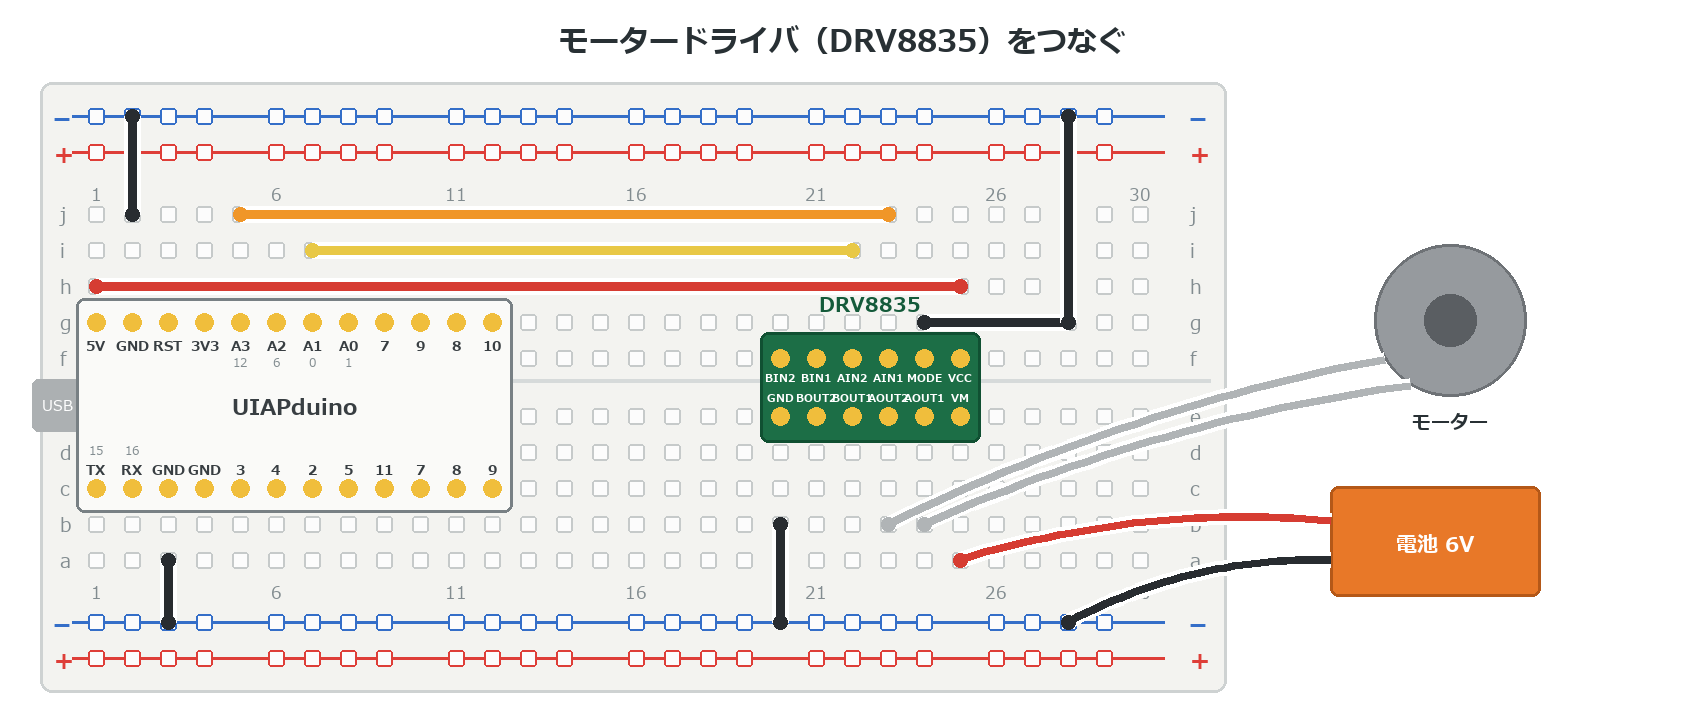
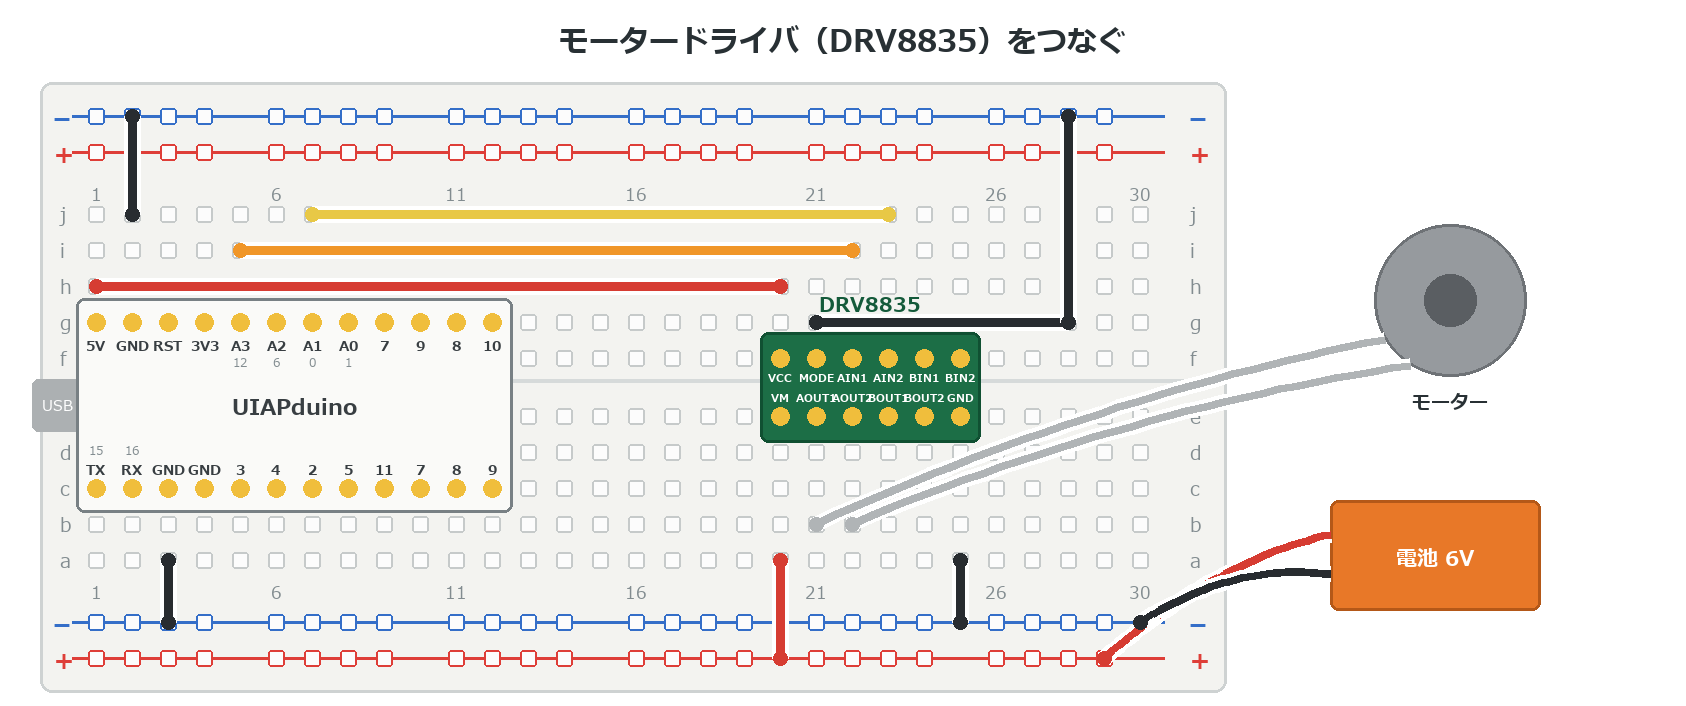
DRV8835 の端子の並びを直した（上下が入れかわった鏡像だった）
資料 AE-DRV8835-S のピン番号で確定させた。
  1 VM  2 AOUT1  3 AOUT2  4 BOUT1  5 BOUT2  6 GND
  7 BIN2 8 BIN1  9 AIN2  10 AIN1  11 MODE  12 VCC

12ピンDIP なので 1番の向かいが 12番。横向きにさすと
  上の行 VCC MODE AIN1 AIN2 BIN1 BIN2
  下の行 VM  AOUT1 AOUT2 BOUT1 BOUT2 GND
になる。

これまでの図は
  上の行 BIN2 BIN1 AIN2 AIN1 MODE VCC
  下の行 GND BOUT2 BOUT1 AOUT2 AOUT1 VM
で、90度右に回した向き・左に回した向きのどちらとも合わない、
上下の行が入れかわった鏡像だった。実物では作れない配置。

実物写真とも突き合わせて一致を確認した（写真の左列が 7〜12、
右列が 6〜1）。写真が不鮮明だったため、資料のピン番号を根拠に
している。

配線も並びに合わせて引き直した。合図が上・力が下という構成は
変えていないので、本文の手順はそのまま使える。

diff --git a/docs/e5_motor/index.html b/docs/e5_motor/index.html
@@ -98,7 +98,7 @@
 
 :::
 
-![合図の線は4本とも上がわ。力の線は下がわ](image/index/bb_drv8835.png)
+![上の行が合図（VCC・MODE・AIN1・AIN2）、下の行が力（VM・AOUT・GND）](image/index/bb_drv8835.png)
 
 ---
 

diff --git a/tools/fig_bb_drv8835.py b/tools/fig_bb_drv8835.py
@@ -1,39 +1,49 @@
 # -*- coding: utf-8 -*-
 """e5 モータードライバの配線図。
-   VCC はロジックの基準電圧。モジュール資料に「入力は 0〜Vcc、
-   絶対最大 Vcc+0.5V」とあるので、5V で動くこのボードにつなぐなら
-   VCC は 3V3 ではなく 5V。"""
+
+端子の並びは資料 AE-DRV8835-S のピン番号から起こしてある。
+  1 VM   2 AOUT1  3 AOUT2  4 BOUT1  5 BOUT2  6 GND
+  7 BIN2 8 BIN1   9 AIN2  10 AIN1  11 MODE  12 VCC
+12ピンDIP なので 1番の向かいが 12番。これを横向きにさすと
+  上の行  VCC MODE AIN1 AIN2 BIN1 BIN2
+  下の行  VM  AOUT1 AOUT2 BOUT1 BOUT2 GND
+となり、合図が上・力が下にそろう。
+
+VCC はロジックの基準電圧。資料に「入力は 0〜Vcc」とあるので、
+5V で動くこのボードにつなぐなら VCC も 5V。
+"""
 import sys
 sys.path.insert(0, "tools")
 sys.stdout.reconfigure(encoding="utf-8")
 from bb import *
 
 RED, ORANGE, YELLOW, BLACK = (214, 60, 50), (240, 150, 40), (232, 200, 70), (40, 44, 48)
-DIPCOL = 20
+DC = 20                                    # DIP の左はし（VCC / VM の列）
 
 im, d = new("モータードライバ（DRV8835）をつなぐ", extra_w=420)
 board(d)
 mcu(d)
-dip(d, DIPCOL, ["BIN2", "BIN1", "AIN2", "AIN1", "MODE", "VCC"],
-                ["GND", "BOUT2", "BOUT1", "AOUT2", "AOUT1", "VM"])
+dip(d, DC, ["VCC", "MODE", "AIN1", "AIN2", "BIN1", "BIN2"],
+            ["VM", "AOUT1", "AOUT2", "BOUT1", "BOUT2", "GND"])
 
-# 合図の線。5V を j行にすると col2 の GND ジャンパーと交差して見えるので h行に置く
-wire(d, (5, "j"), (23, "j"), ORANGE)     # A3（12番）→ AIN1
-wire(d, (7, "i"), (22, "i"), YELLOW)     # A1（0番） → AIN2
-wire(d, (1, "h"), (25, "h"), RED)        # 5V        → VCC
-wire(d, (24, "g"), (28, "g"), BLACK)     # MODE      → GND（IN/INモード）
+# ── 合図と電源（上がわ）。行を分けて平行に走らせる ──────────
+wire(d, (1, "h"), (DC,     "h"), RED)      # 5V      → VCC
+wire(d, (5, "i"), (DC + 2, "i"), ORANGE)   # 12番(A3) → AIN1
+wire(d, (7, "j"), (DC + 3, "j"), YELLOW)   # 0番(A1)  → AIN2
+wire(d, (DC + 1, "g"), (28, "g"), BLACK)   # MODE → GND（IN/INモード）
 wire(d, (28, "g"), (28, "-t"), BLACK)
-wire(d, (2, "j"), (2, "-t"), BLACK)      # ボードの GND → 上の − レール
-wire(d, (3, "a"), (3, "-b"), BLACK)      # ボードの GND → 下の − レール
-wire(d, (DIPCOL, "b"), (DIPCOL, "-b"), BLACK)   # ドライバの GND → 下の − レール
+wire(d, (2, "j"), (2, "-t"), BLACK)        # ボードのGND → 上の −レール
 
-# 力の線
-MX, MY = 1450, 320
+# ── 力の線（下がわ）────────────────────────────────
+wire(d, (DC,     "a"), (DC,     "+b"), RED)     # VM  → 下の ＋レール
+wire(d, (DC + 5, "a"), (DC + 5, "-b"), BLACK)   # GND → 下の −レール
+wire(d, (3, "a"), (3, "-b"), BLACK)             # ボードのGND → 同じレール
+
+MX, MY = 1450, 300
 motor(d, MX, MY)
-lead(d, MX - 66, MY + 40, (23, "b"), (176, 180, 182))
-lead(d, MX - 40, MY + 66, (24, "b"), (176, 180, 182))
-bp, bm = battery(d, 1330, 486)
-lead(d, bp[0], bp[1], (25, "a"), RED)
-lead(d, bm[0], bm[1], (28, "-b"), BLACK)
-
+lead(d, MX - 66, MY + 40, (DC + 1, "b"), (176, 180, 182))   # AOUT1
+lead(d, MX - 40, MY + 66, (DC + 2, "b"), (176, 180, 182))   # AOUT2
+bp, bm = battery(d, 1330, 500)
+lead(d, bp[0], bp[1], (29, "+b"), RED)
+lead(d, bm[0], bm[1], (30, "-b"), BLACK)
 save(im, "e5_motor", "bb_drv8835.png")

diff --git a/CURRICULUM.md b/CURRICULUM.md
@@ -1218,7 +1218,15 @@ i3 Lチカ ─→ b1 外付けLED ─→ b3 PWM ────┐
       （ロジック電源 2〜7V なので 5V は範囲内。モータ電源 2〜11V・1回路1.5A）
       教材は 3V3 と書いていたので修正した（`e5_motor` と `bb_drv8835.png`）。
       <https://akizukidenshi.com/goodsaffix/AE-DRV8835-S_20210526.pdf>
-      - [ ] 端子名の並びと `MODE`=GND で IN/IN になることは実機で確認する
+      - [x] ✅ **端子の並びを資料で確定**（2026-09-23）。ピン番号は
+            `1 VM / 2 AOUT1 / 3 AOUT2 / 4 BOUT1 / 5 BOUT2 / 6 GND /
+             7 BIN2 / 8 BIN1 / 9 AIN2 / 10 AIN1 / 11 MODE / 12 VCC`。
+            12ピンDIP なので **1番の向かいが 12番**。横向きにさすと
+            上の行 `VCC MODE AIN1 AIN2 BIN1 BIN2`／
+            下の行 `VM AOUT1 AOUT2 BOUT1 BOUT2 GND` になる。
+            ⚠ **図はこれと上下が入れかわった鏡像だった**ので描き直した。
+            実物写真とも一致を確認（写真の左列＝7〜12、右列＝6〜1）。
+      - [ ] `MODE`=GND で IN/IN になることは実機で確認する
 
 ### 第3段階：発展編（`e`）
 

diff --git a/content/e5_motor/index.md b/content/e5_motor/index.md
@@ -84,7 +84,7 @@ wip: 写真まち
 
 :::
 
-![合図の線は4本とも上がわ。力の線は下がわ](image/index/bb_drv8835.png)
+![上の行が合図（VCC・MODE・AIN1・AIN2）、下の行が力（VM・AOUT・GND）](image/index/bb_drv8835.png)
 
 ---
 
